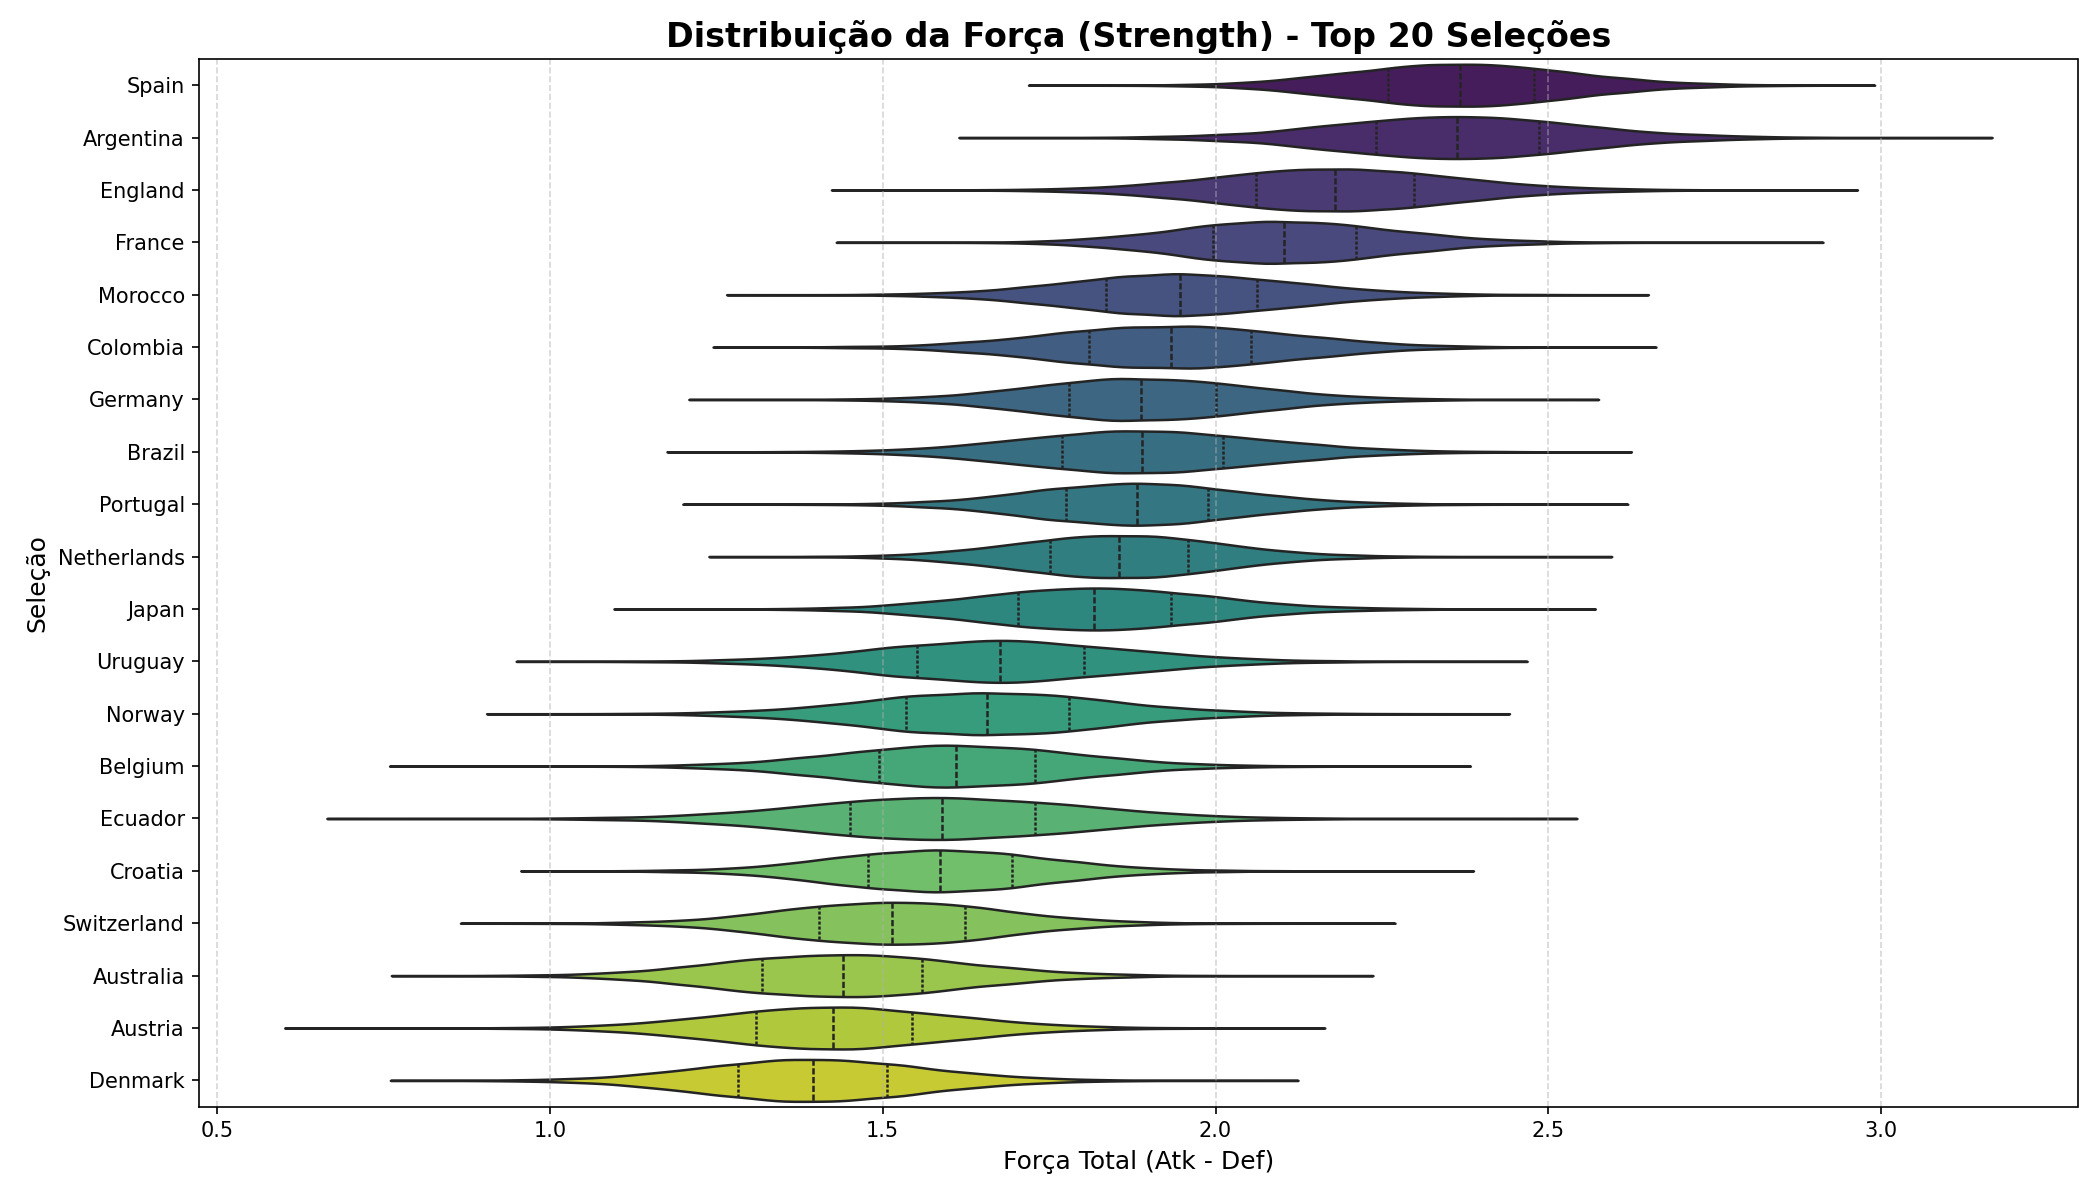
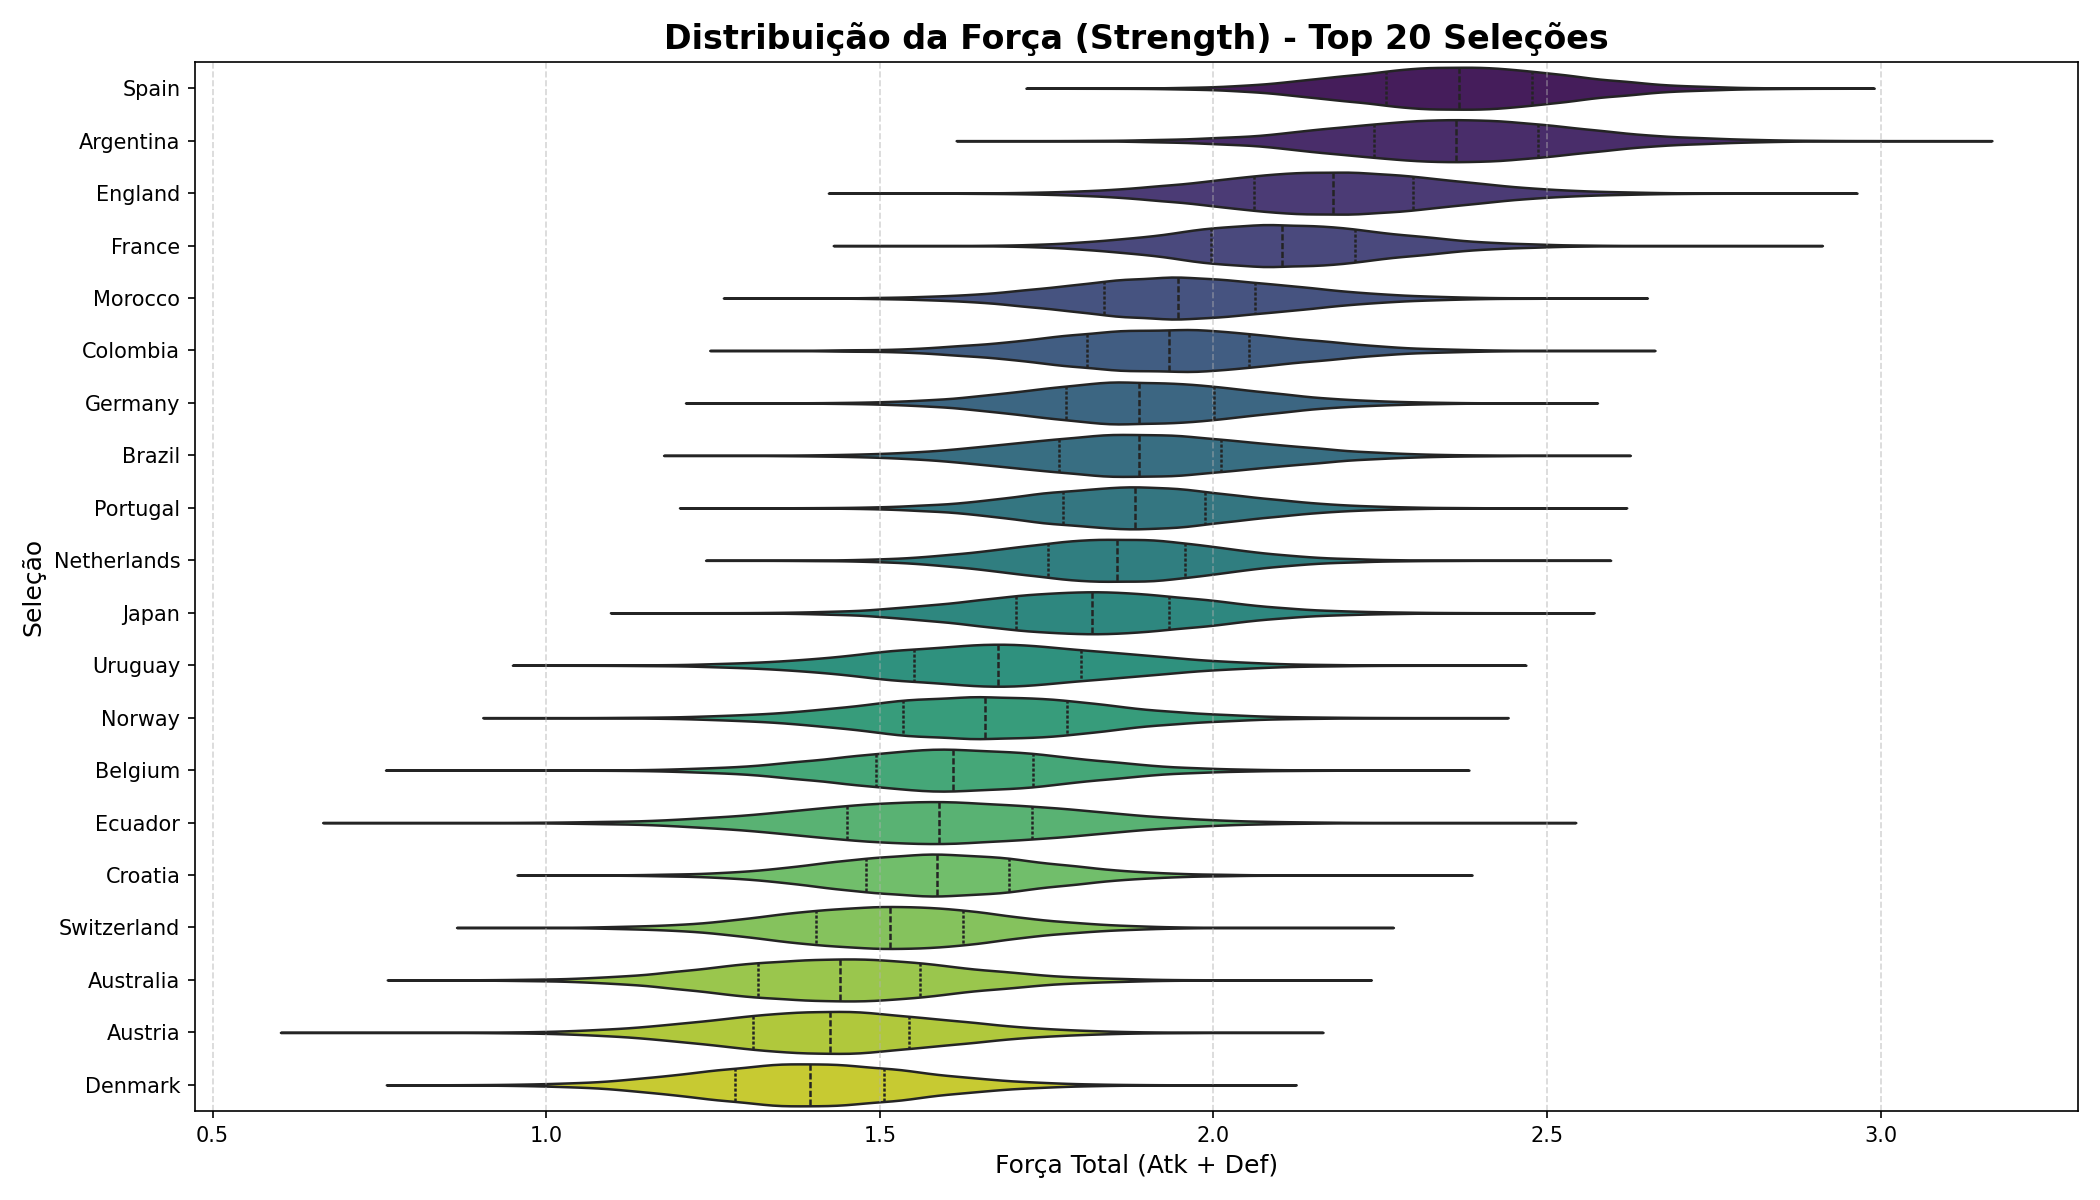
update strength plot

diff --git a/src/forces.py b/src/forces.py
@@ -6,7 +6,7 @@ from src.data_prep import prepare_cycle_data
 
 _, teams_26, _ = prepare_cycle_data(
     'data/raw/results.csv',
-    '2022-11-20',
+    '2022-11-19',
     apply_decay=True
 )
 npz_path = 'data/outputs/models/draws_2026_n_poisson_ranking.npz'
@@ -43,7 +43,7 @@ sns.violinplot(
 
 plt.title('Distribuição da Força (Strength) - Top 20 Seleções',
           fontsize=16, fontweight='bold')
-plt.xlabel('Força Total (Atk - Def)', fontsize=12)
+plt.xlabel('Força Total (Atk + Def)', fontsize=12)
 plt.ylabel('Seleção', fontsize=12)
 plt.grid(axis='x', linestyle='--', alpha=0.5)
 